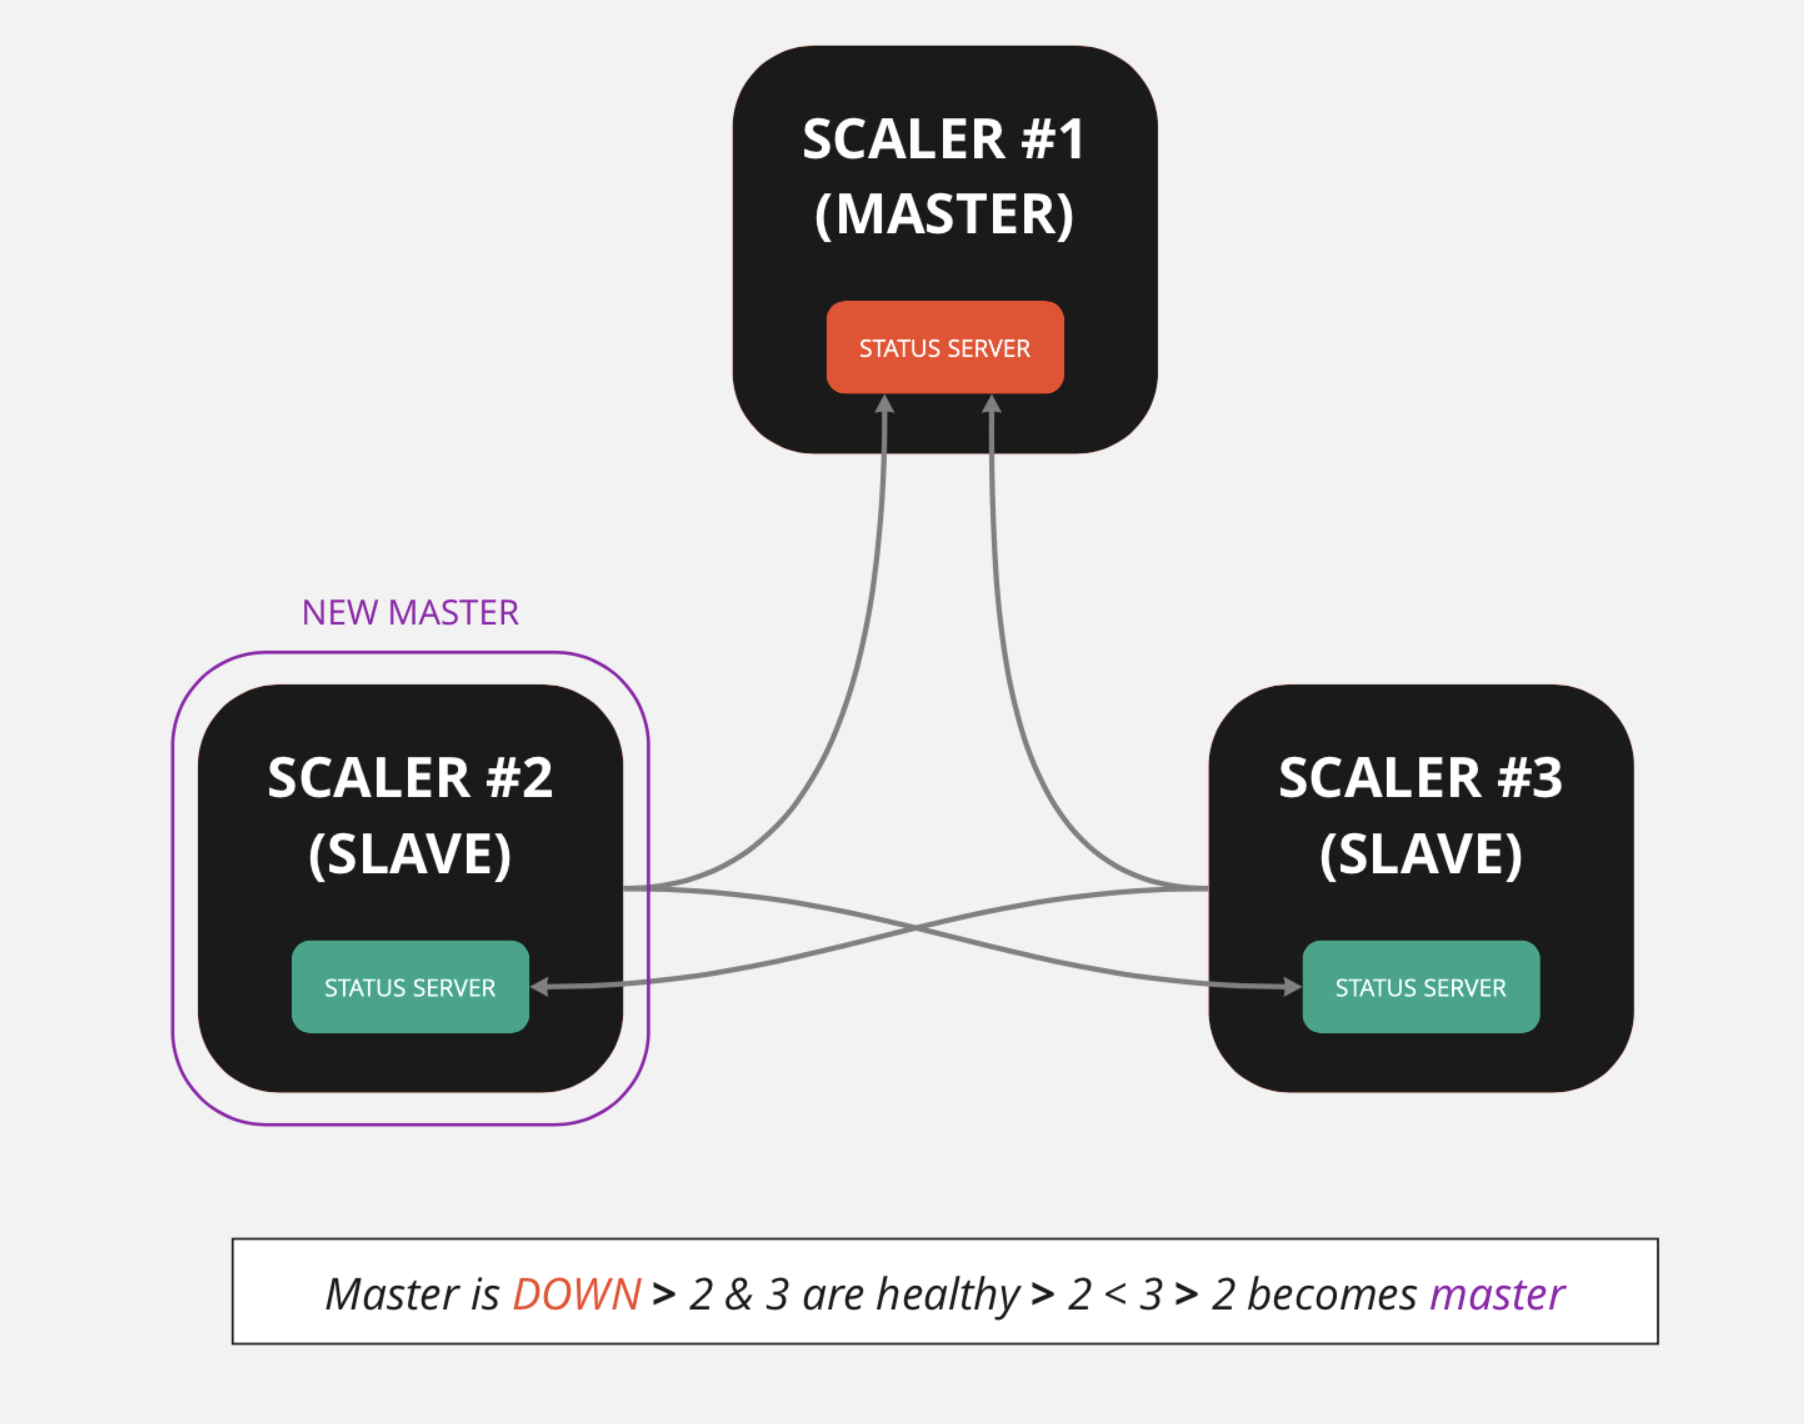
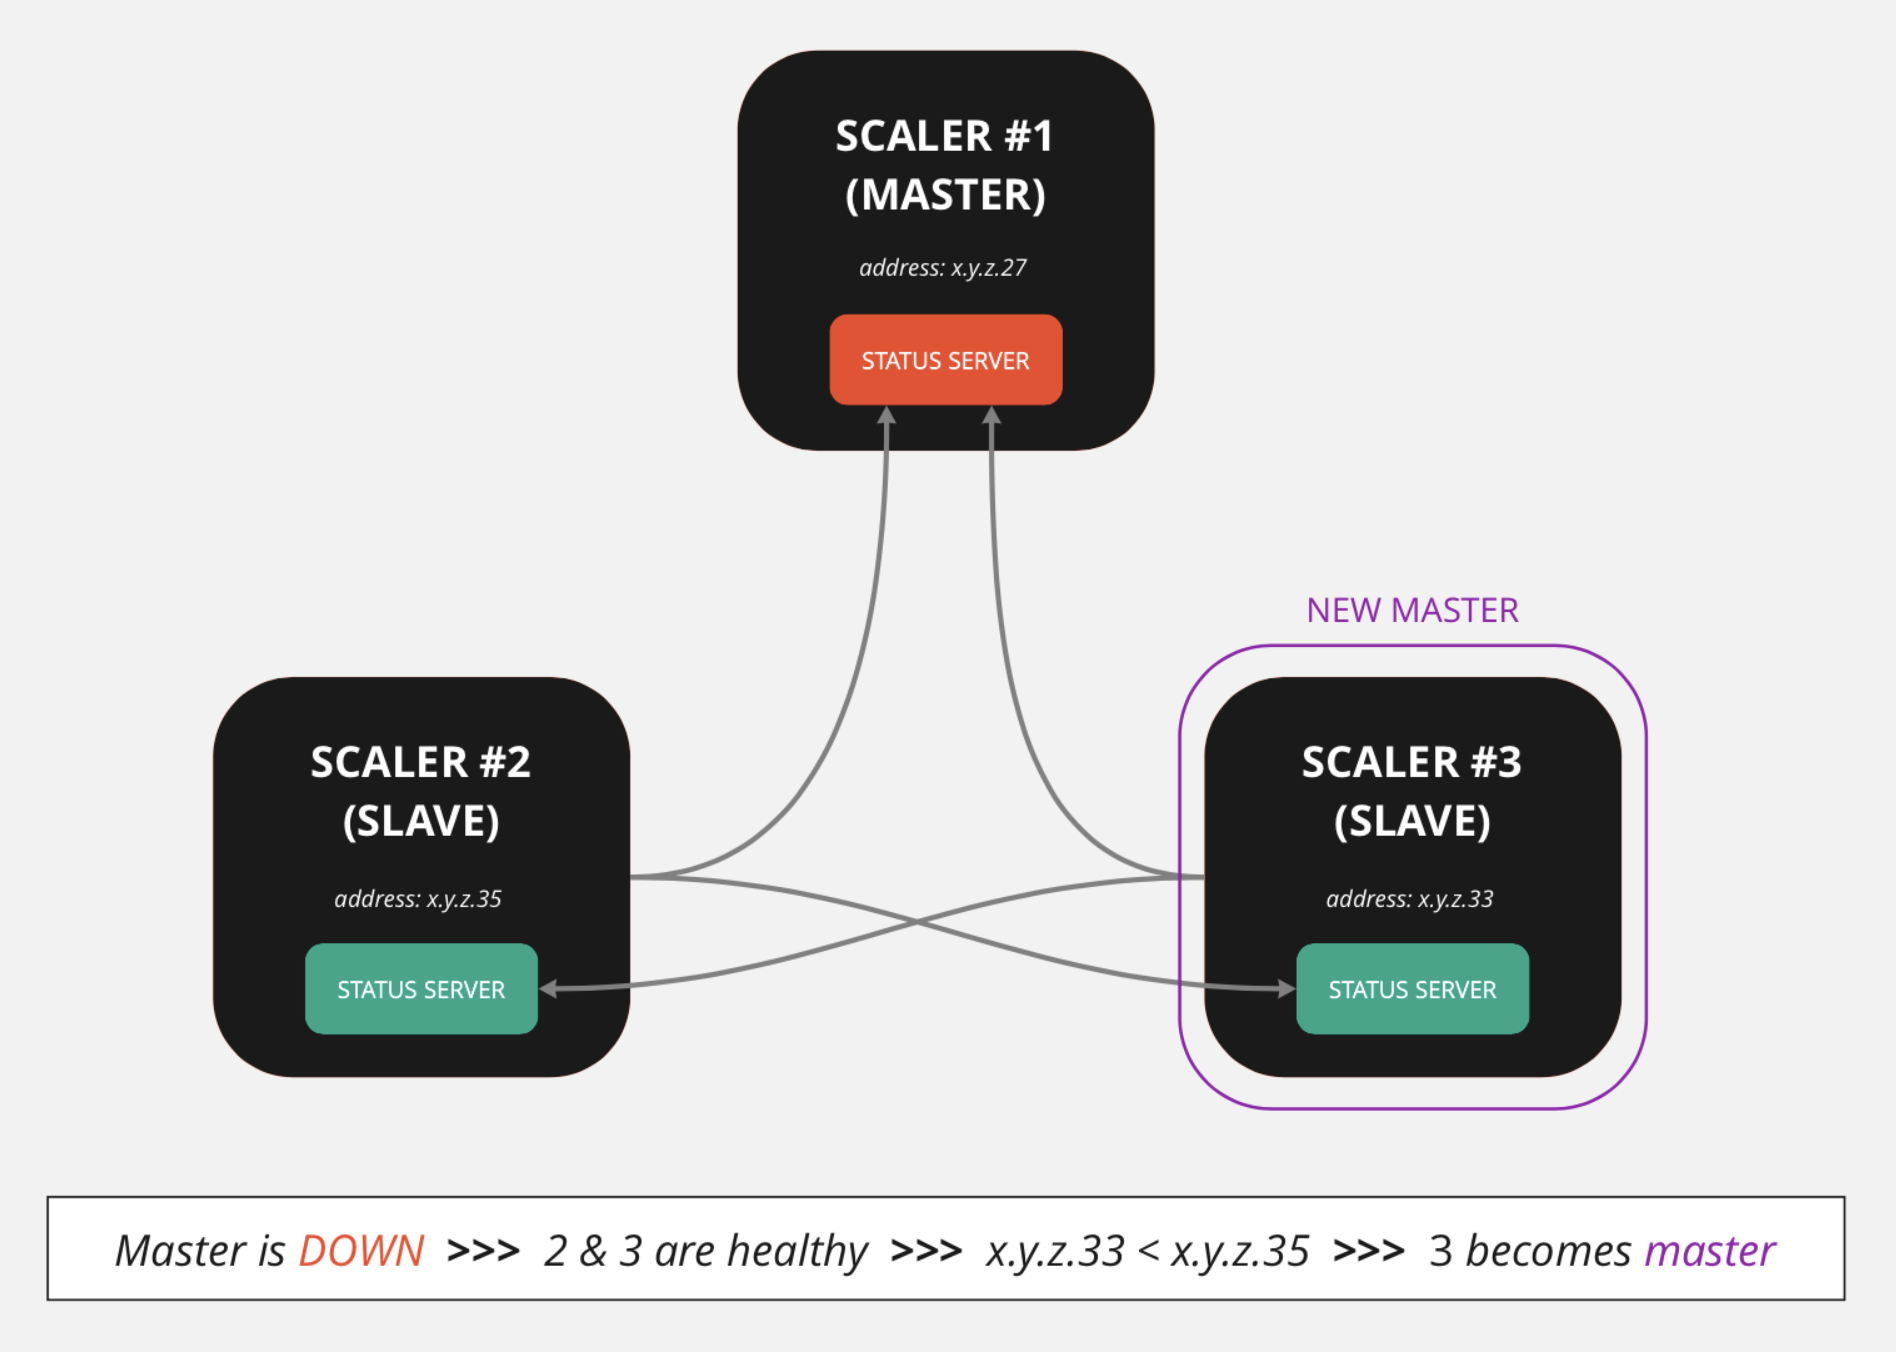
✏(autoscaling)update doc with address for the order

Changed region(s): [[0.0931, 0.4038, 0.9313, 0.8388], [0.3725, 0.0311, 0.6519, 0.5902], [0.031, 0.8698, 0.9313, 0.963]]

diff --git a/docs/simplescalevm-in-depth.md b/docs/simplescalevm-in-depth.md
@@ -63,6 +63,6 @@ The general functioning of the feature is summarized in the following graphic:
 
 ![autoscaling infrastructure](./autoscaling_infrastructure.png)
 
-The mechanism that is used to elect a new master relies on lexicographical order: when a master goes down, each scaler checks if its ID is the lowest among all healthy replicas to determine if it should become master. The following example illustrates this process:
+The mechanism that is used to elect a new master relies on lexicographical order: when a master goes down, each scaler checks if its internal address is the lowest among all healthy replicas to determine if it should become master. The following example illustrates this process:
 
 ![autoscaling master](./autoscaling_master.png)
